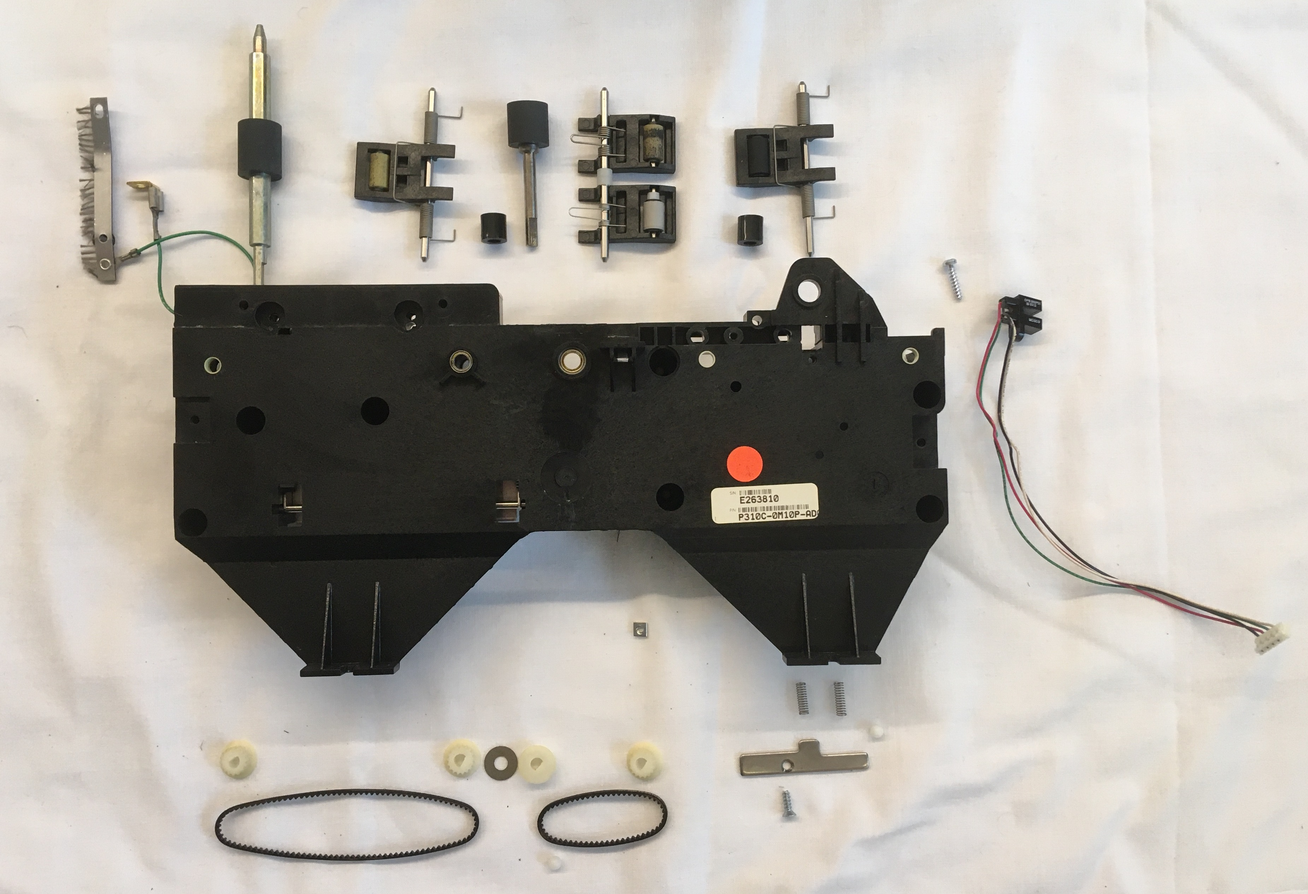
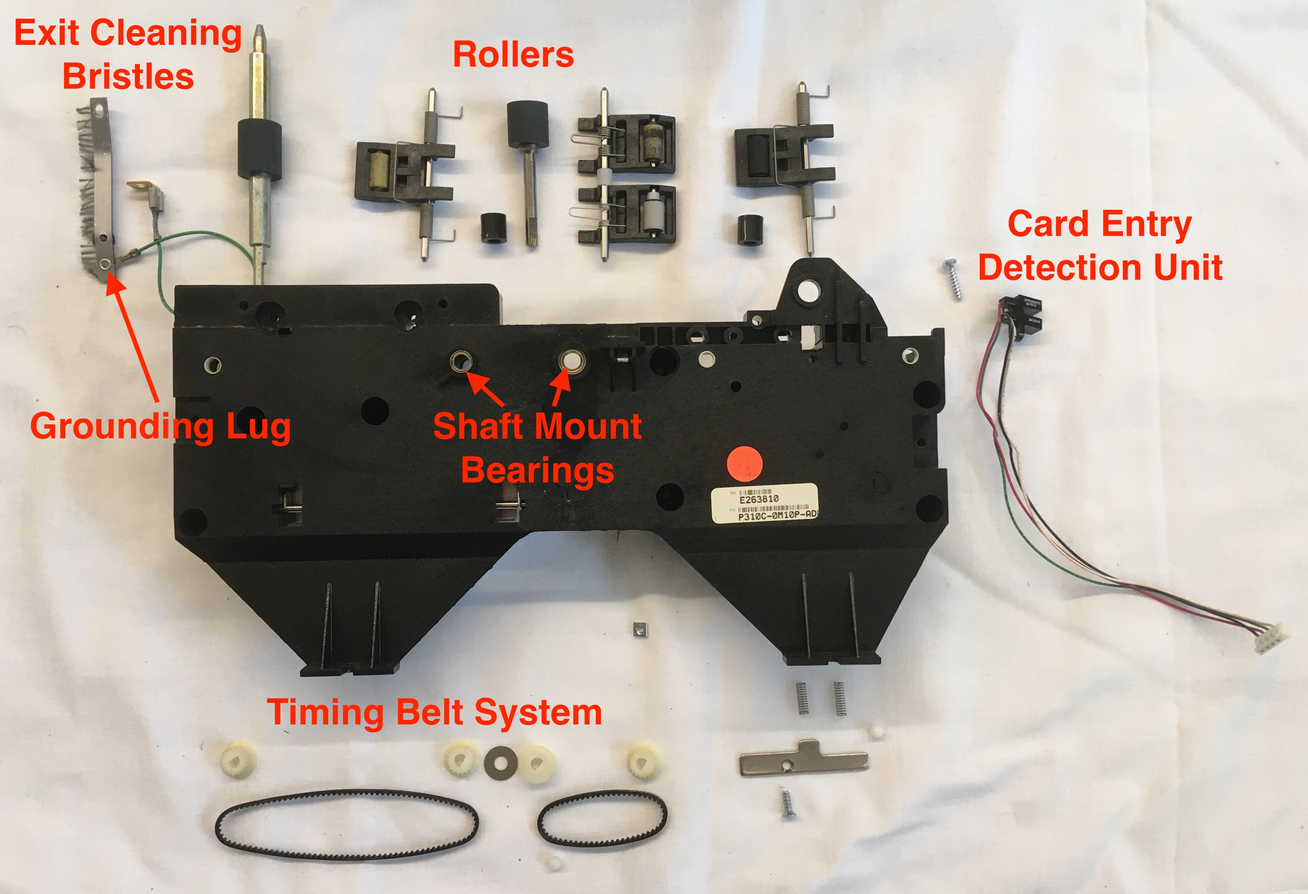
finished entry detection

diff --git a/teardowns/IDprinter.html b/teardowns/IDprinter.html
@@ -302,8 +302,9 @@
 <hr>
 <section>
 	<h3>Disassembling Printer Body</h3>
+	<p>&emsp;&emsp;Up until the printer body, the teardown had been accomplished solely using a small phillips screwdriver. To remove the metal backing which protected the mechanical drive system of the printer and where the main control PCB and magnetic encoding PCB had been mounted, a special hex star screwdriver head was required. After removing the backing plates and bolts connecting either half of the printer body, I was able to open up the printer body completely and expose all the printer components.</p>
 	<img src="../images/teardowns/IDprinter/mechanismCover.jpg" alt="Stainless Steel Cover with Mount Outcroppings and Exposed Wiring" class="center">
-	<p class="label">Metal Cover for Protecting Mechanical System and Mounting Main PCBs</p>
+	<p class="label">Metal Cover Requiring Special Screwdriver for Disassembly</p>
 	<img src="../images/teardowns/IDprinter/hexStarScrewdriver.jpg" alt="Small Brown Hexagon Star Screwdriver Held in Fingers" class="center">
 	<p class="label">Special Hex Star Screwdriver Head Required for Interior Disassembly</p>
 	<img src="../images/teardowns/IDprinter/fullExploded.jpg" alt="Main, Power PCBs, and Body Dissassembled" class="center">
@@ -312,12 +313,14 @@
 <hr>
 <section>
 	<h3>Printer Body Front Half</h3>
+	<p>&emsp;&emsp;For the most part, the front half of the printer body simply contained complementary mounts for the components of the back half of the printer body such as bearing mounts for each roller shaft. Nonetheless, the front half of the printer body also contained a card entry detection sensor and it extended the range of the stepper motor timing belt system to cover the rollers near the printer exit.</p>
 	<img src="../images/teardowns/IDprinter/frontGears.jpg" alt="Two Belts Connecting Gear Train Under Small Plastic Cover" class="center">
 	<p class="label">Exposed Timing Belt System on Printer Front</p>
 	<img src="../images/teardowns/IDprinter/frontHalfFront.jpg" alt="Timing Belt Holding Together Gear Train Connecting Rollers" class="center">
 	<p class="label">Printer Body Front Half - Front View</p>
 	<img src="../images/teardowns/IDprinter/frontHalfBack.jpg" alt="Shaft and Roller Ends Along with Electronic Card Sensing Component" class="center">
 	<p class="label">Printer Body Front Half - Back View</p>
+	<p>&emsp;&emsp;I'm not sure what the purpose is of the spring loaded metal plate on the backing of the front half of the printer body. It's located at the magnetic encoding station and a card passing over its top edge would cause the springs to compress generating force upwards on the card. Therefore, maybe it acts in conjunction with the pair of torsional spring loaded passive rollers above to keep pressure on the card as it is magnetically encoded.</p>
 	<img src="../images/teardowns/IDprinter/frontHalfFrontExploded.jpg" alt="Timing Belt, Gears, Shafts, Rollers, and Card Entry Sensor" class="center">
 	<p class="label">Printer Body Front Half - Front Exploded View</p>
 	<img src="../images/teardowns/IDprinter/frontHalfBackExploded.jpg" alt="Bearings Tucked into Plastic and Spring Loaded Metal Plate Removed" class="center">
@@ -325,20 +328,37 @@
 	<img src="../images/teardowns/IDprinter/entryDetection.jpg" alt="Small Black Sensor Tucked in Card Roller Route" class="center">
 	<p class="label">Card Entry Detection</p>
 	<img src="../images/teardowns/IDprinter/entryDetector.jpg" alt="Card Detection Sensor with Four Exiting Wires" class="center">
-	<p class="label">Card Entry Detection Electronics Unit</p>
+	<p class="label">Card Entry Detection Sensor</p>
+	<p>&emsp;&emsp;The card entry detection sensor is a beam-interrupt type optical sensor known as a slotted optical switch. Although I couldn't find the datasheet for this exact product, I found one for a similar looking product <a href="https://www.ttelectronics.com/TTElectronics/media/ProductFiles/Optoelectronics/Datasheets/OPB830_OPB840.pdf">here</a>. When an ID card passes between the two terminals of the sensor, it blocks the light shining from the top terminal (labeled E for emitter) from reaching the phototransistor in the bottom terminal (labeled S for sensor), causing the sensor output to change as the phototransistor switches either open or closed. When the signal coming from the phototransistor changes, it's change is detected by a voltage comparator. The digital output from the voltage comparator is then sent to the microcontroller communicating that a card has been detected at the printer entry. This solution to card detection would be fairly easy to implement in the design and likely produces consistent card detection results. That is, until someone decides to get tricky and start loading translucent or transparent cards into the printer.</p>
 </section>
 <hr>
 <section>
 	<h3>Printer Body Back Half</h3>
 	<img src="../images/teardowns/IDprinter/mechanism.jpg" alt="Springs, Pulleys, Belts, Gears, Bearings, Linkages, and Shafts on Printer Back Half" class="center">
 	<p class="label">Printer Mechanism</p>
-	<img src="../images/teardowns/IDprinter/opticalEncoder.jpg" alt="Gold Slotted Circular Plate with Attached Light Sensor" class="center">
-	<p class="label">Closeup of Optical Encoder Mechanism</p>
+	<img src="../images/teardowns/IDprinter/mechanismExploded.jpg" alt="Roller Driving System and Heating Element System Components Disassembled from Body Back Half" class="center">
+	<p class="label">Printer Mechanism Exploded View</p>
+	<h4>Introduction</h4>
+	<p>&emsp;&emsp;</p>
+	<h4>Printer Mechanism PCB</h4>
 	<img src="../images/teardowns/IDprinter/mechanismPCBfront.jpg" alt="Connection Points for Motor, Sensors, and Control Signals" class="center">
 	<p class="label">Printer Mechanism PCB - Top View</p>
 	<img src="../images/teardowns/IDprinter/mechanismPCBback.jpg" alt="Simple Green PCB Backing with THT Soldering and Traces" class="center">
 	<p class="label">Printer Mechanism PCB - Bottom View</p>
-
+	<h4>Optical Encoder</h4>
+	<img src="../images/teardowns/IDprinter/opticalEncoder.jpg" alt="Gold Slotted Circular Plate with Attached Light Sensor" class="center">
+	<p class="label">Closeup of Optical Encoder Mechanism</p>
+	<div class="doubleRowImage">
+		<img src="../images/teardowns/IDprinter/opticalEncoderFront.jpg" alt="Gold Disk with Slots Along Circumference and Spring Mounted at Front">
+		<p class="label">Optical Encoder Disk - Front View</p>
+	</div>
+	<div class="doubleRowImage">
+		<img src="../images/teardowns/IDprinter/opticalEncoderBack.jpg" alt="Black Plastic Teardrop Shaped Piece Mounted Concentric with Encoder Disk">
+		<p class="label">Optical Encoder Disk - Back View</p>
+	</div>
+	<img src="../images/teardowns/IDprinter/opticalSensor.jpg" alt="Small PCB with Light Sensors and Wires Leading Offboard" class="center">
+	<p class="label">Optical Encoder Light Sensor</p>
+	<h4>Magnetic Encoder</h4>
 	<img src="../images/teardowns/IDprinter/magneticEncoder.jpg" alt="Metal Sensor Mounted After Roller Exiting Heating Element" class="center">
 	<p class="label">Magnetic Encoder Mounted in Body</p>
 	<div class="doubleRowImage">
@@ -350,18 +370,13 @@
 		<p class="label">Magnetic Encoder - Bottom View</p>
 	</div>
 	<p>&emps;&emps;The magnetic encoder unit contains a read/write head and there must be a nearby or included card sensor. The encoder reads after writing to assure a reliable result. Encoding occurs on all 3 tracks as the card passes over the encoder unit.</p>
-	<img src="../images/teardowns/IDprinter/mechanismExploded.jpg" alt="Roller Driving System and Heating Element System Components Disassembled from Body Back Half" class="center">
-	<p class="label">Printer Mechanism Exploded View</p>
-
-	<img src="../images/teardowns/IDprinter/motor.jpg" alt="18V 4.5N*cm Motor by Buhler" class="center">
-	<p class="label">DC Motor for Roller Rotation</p>
-
+	<h4>Print Head</h4>
 	<img src="../images/teardowns/IDprinter/heatingElement.jpg" alt="Metal Plate Piece with Many Wires Leading In and Labelled 'R-1525'" class="center">
 	<p class="label">Print Head</p>
-
+	<img src="../images/teardowns/IDprinter/heatingElementExploded.jpg" alt="Metal Cover Removed from Heating Element Revealing Copper Tone PCB with Traces and Vias" class="center">
+	<p class="label">Print Head PCB</p>
 	<img src="../images/teardowns/IDprinter/fan.jpg" alt="Small 12V DC Brushless Fan Motor" class="center">
 	<p class="label">Cooling Fan for Print Head</p>
-
 	<div class="doubleRowImage">
 		<img src="../images/teardowns/IDprinter/heatingLight.jpg" alt="Small Plastic Piece with Two LED Heads at Tip">
 		<p class="label">Light Unit Adjacent to Print Head</p>
@@ -370,26 +385,13 @@
 		<img src="../images/teardowns/IDprinter/heatingLightExposed.jpg" alt="Two LEDs Laid in Plastic with Wires Leading Out From Each Terminal">
 		<p class="label">LEDs Exposed in Light Unit</p>
 	</div>
-	<p></p>
-	<div class="doubleRowImage">
-		<img src="../images/teardowns/IDprinter/opticalEncoderFront.jpg" alt="Gold Disk with Slots Along Circumference and Spring Mounted at Front">
-		<p class="label">Optical Encoder Disk - Front View</p>
-	</div>
-	<div class="doubleRowImage">
-		<img src="../images/teardowns/IDprinter/opticalEncoderBack.jpg" alt="Black Plastic Teardrop Shaped Piece Mounted Concentric with Encoder Disk">
-		<p class="label">Optical Encoder Disk - Back View</p>
-	</div>
-	<img src="../images/teardowns/IDprinter/opticalSensor.jpg" alt="Small PCB with Light Sensors and Wires Leading Offboard" class="center">
-	<p class="label">Optical Encoder Light Sensor</p>
-
-	<img src="../images/teardowns/IDprinter/unremovablePieces.jpg" alt="Several Shaft Mounted Disks and Metal Lever Arm Remaining Inside Body" class="center">
-	<p class="label">Unremovable Pieces from Printer Mechanism</p>
-
-	<img src="../images/teardowns/IDprinter/heatingElementExploded.jpg" alt="Metal Cover Removed from Heating Element Revealing Copper Tone PCB with Traces and Vias" class="center">
-	<p class="label">Print Head PCB</p>
-
+	<img src="../images/teardowns/IDprinter/motor.jpg" alt="18V 4.5N*cm Motor by Buhler" class="center">
+	<p class="label">DC Motor for Roller Rotation</p>
 	<video controls="controls" name="Testing Print Head Unlock Lever" src="../images/teardowns/IDprinter/armAction.mp4" class="center"></video>
 	<p class="label">Testing Print Head Unlock Lever</p>
+	<h4>Conclusion</h4>
+	<img src="../images/teardowns/IDprinter/unremovablePieces.jpg" alt="Several Shaft Mounted Disks and Metal Lever Arm Remaining Inside Body" class="center">
+	<p class="label">Unremovable Pieces from Printer Mechanism</p>
 </section>
 <hr>
 <section>
